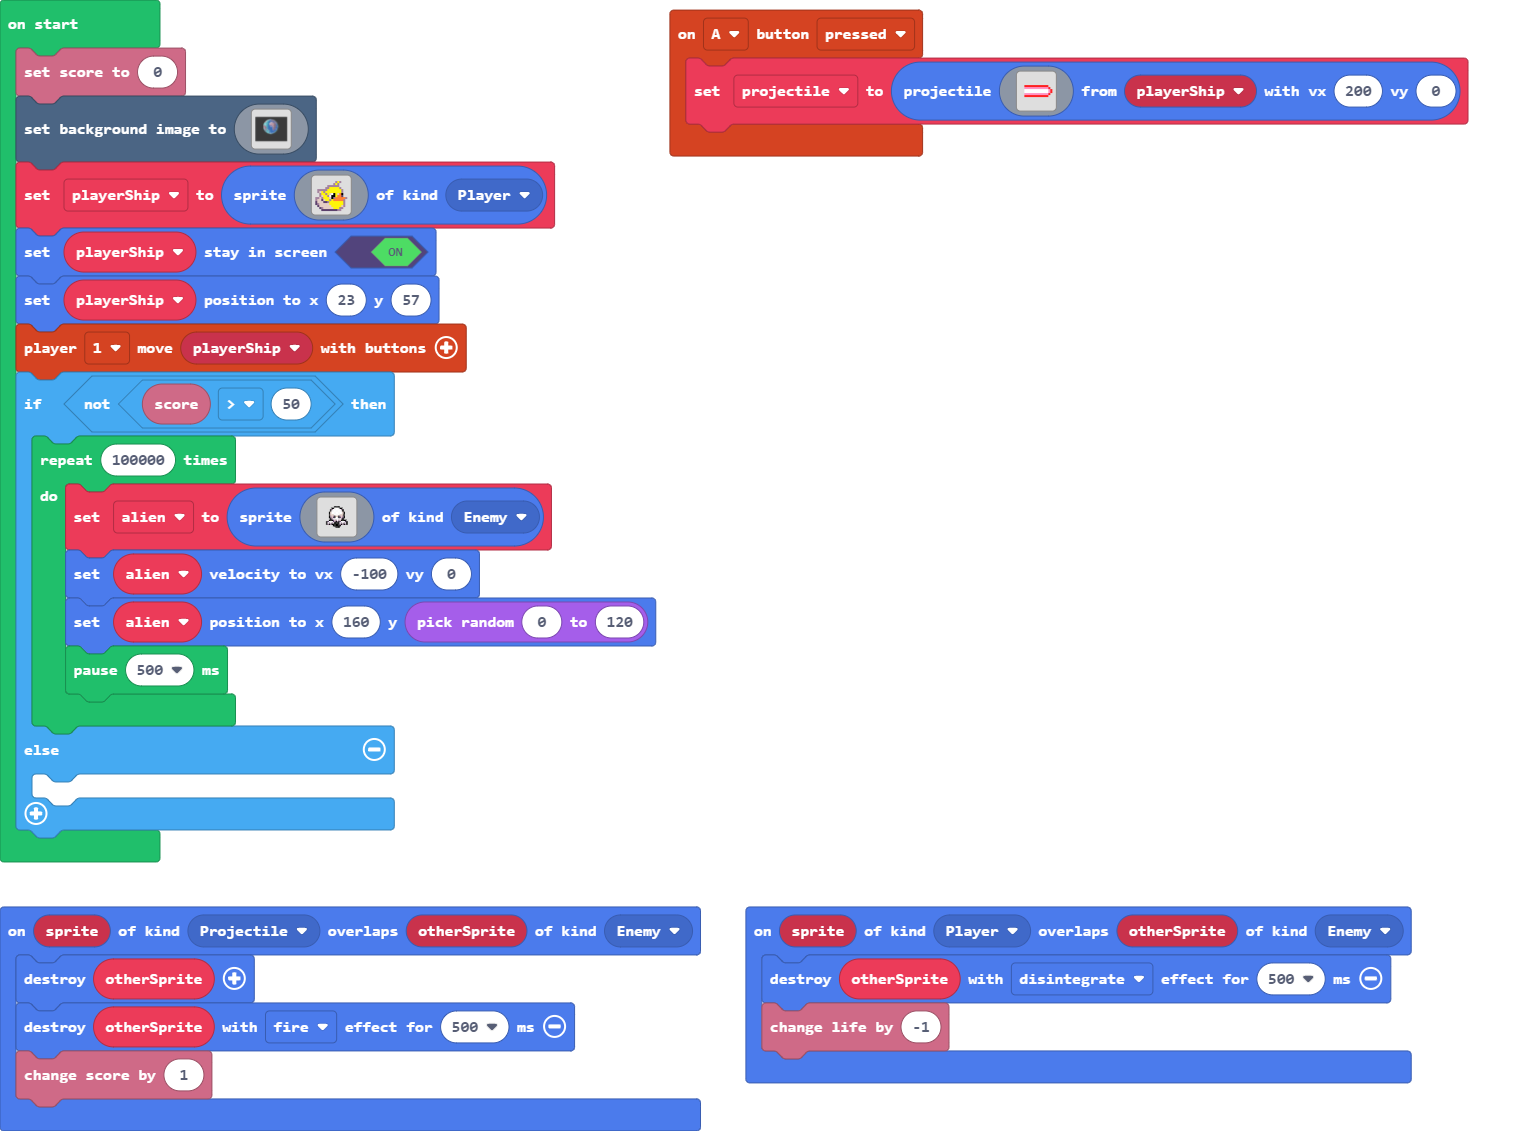
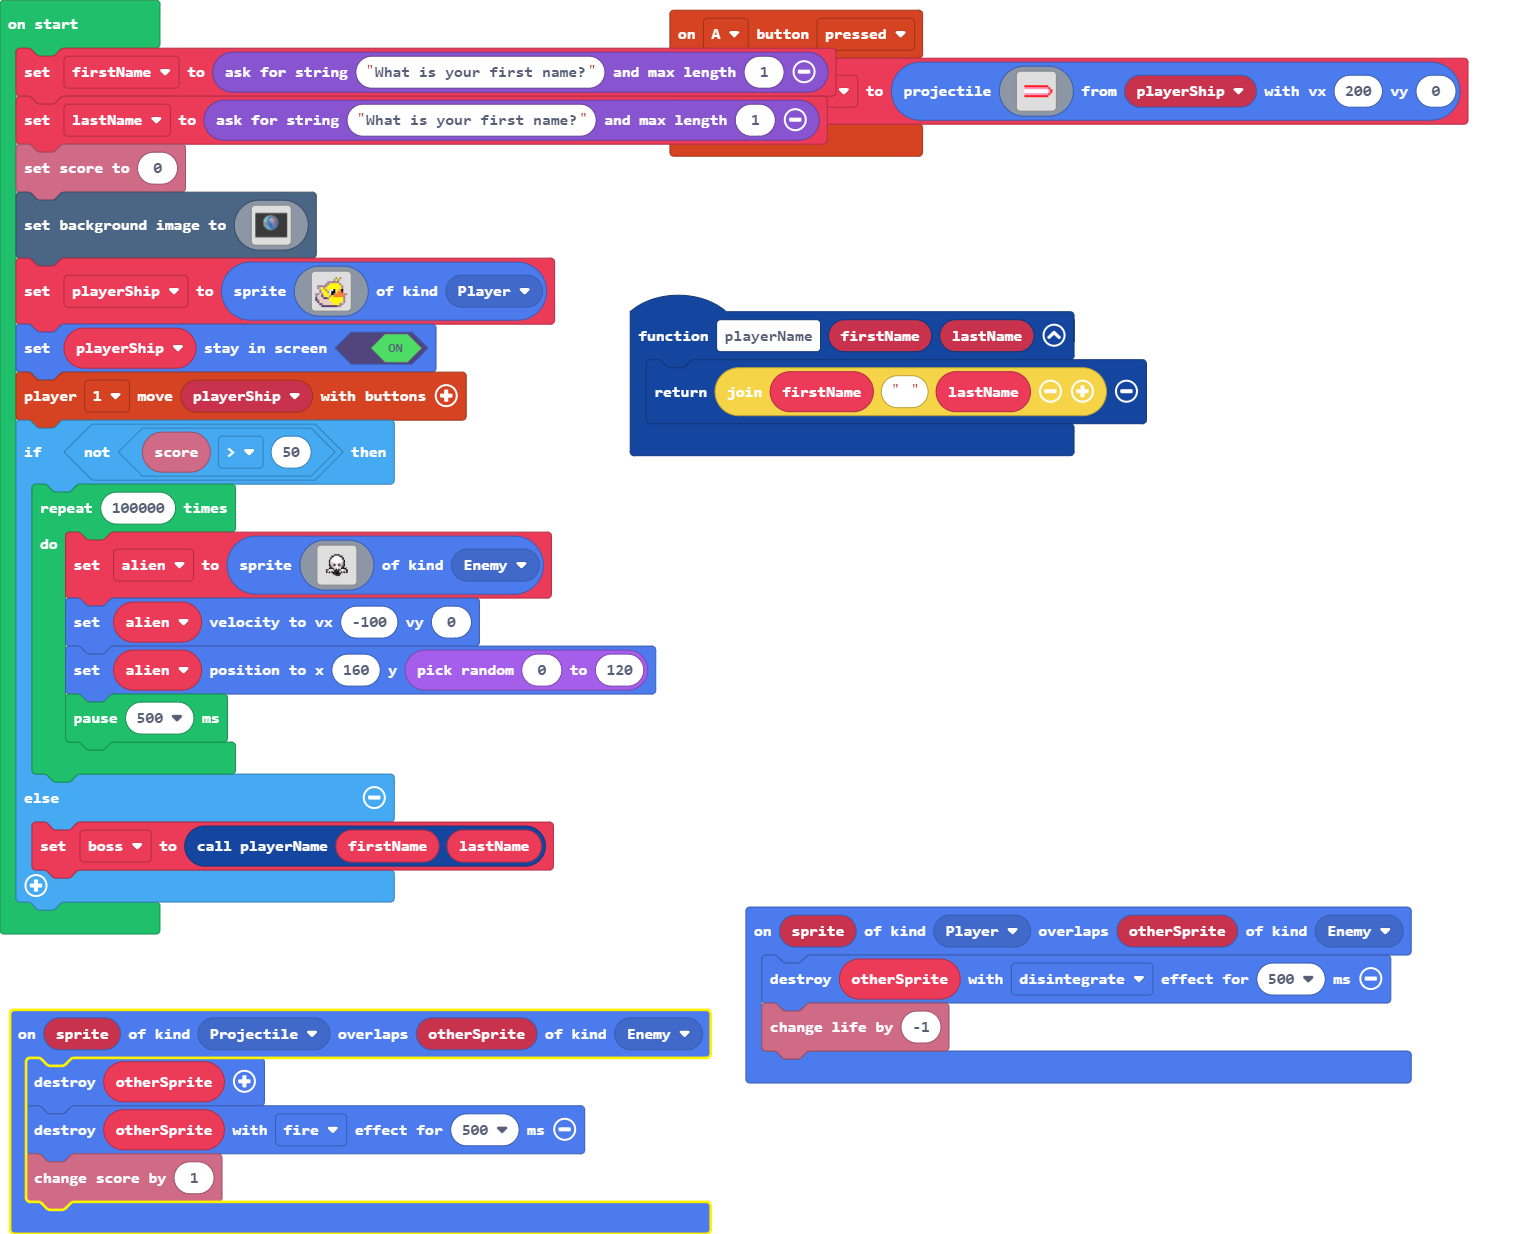
Update pxt.json, main.blocks, main.ts

diff --git a/main.ts b/main.ts
@@ -1,3 +1,6 @@
+function playerName (firstName: string, lastName: string) {
+    return "" + firstName + " " + lastName
+}
 controller.A.onEvent(ControllerButtonEvent.Pressed, function () {
     projectile = sprites.createProjectileFromSprite(img`
         . . . . . . . . . . . . . . . . 
@@ -28,8 +31,11 @@ sprites.onOverlap(SpriteKind.Player, SpriteKind.Enemy, function (sprite, otherSp
     info.changeLifeBy(-1)
 })
 let projectile: Sprite = null
+let boss = ""
 let alien: Sprite = null
 let playerShip: Sprite = null
+let firstName = game.askForString("What is your first name?", 1)
+let lastName = game.askForString("What is your first name?", 1)
 info.setScore(0)
 scene.setBackgroundImage(img`
     ffffffffffffffffffffffffffffffffffffffffffffffffffffffffffffffffffffffffffffffffffffffffffffffffffffffffffffffffffffffffffffffffffffffffffffffffffffffffffffffff
@@ -172,7 +178,6 @@ playerShip = sprites.create(img`
     . . . c c c c c c c c b b . . . 
     `, SpriteKind.Player)
 playerShip.setStayInScreen(true)
-playerShip.setPosition(23, 57)
 controller.player1.moveSprite(playerShip)
 if (!(info.score() > 50)) {
     for (let index = 0; index < 100000; index++) {
@@ -207,5 +212,5 @@ if (!(info.score() > 50)) {
         pause(500)
     }
 } else {
-	
+    boss = playerName(firstName, lastName)
 }
